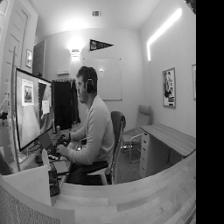
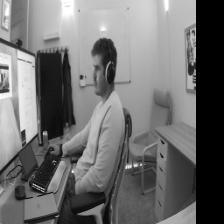
Finalize first classification projects

diff --git a/coral-examples/classify_capture.py b/coral-examples/classify_capture.py
@@ -28,10 +28,10 @@ import PIL
 import cv2
 
 colour = (255,105,180)
-org_x, org_y, org_dy = 0, 30, 30
+org_x, org_y, org_dy = 0, 70, 70
 font = cv2.FONT_HERSHEY_SIMPLEX
-scale = 0.75
-thickness = 2
+scale = 2.5
+thickness = 4
 
 Category = collections.namedtuple('Category', ['id', 'score'])
 
@@ -74,7 +74,7 @@ def main():
     with picamera2.Picamera2() as camera:
         width, height, channels = common.input_image_size(interpreter)
         config = camera.create_video_configuration(
-            main=dict(size=(640, 480)),
+            main=dict(size=(1080, 1080)),
             lores=dict(size=(width, height))
         )
         camera.video_configuration.controls.FrameRate = 30.0
@@ -91,12 +91,19 @@ def main():
         try:
             while True:
                 time.sleep(1)
-                buffer = camera.capture_buffer("lores")
-                grey = buffer[:s1 * h1].reshape((h1, s1))
-                rgb = cv2.cvtColor(grey,cv2.COLOR_GRAY2RGB)
-                rgb = cv2.resize(rgb, (width, height))
-                PIL.Image.fromarray(rgb).save('input_image.jpg')
-                input_data = np.expand_dims(rgb, axis=0)
+                mb = camera.capture_array("main")
+                mb = PIL.Image.fromarray(mb)
+                mb = mb.convert('RGB')
+                mb = mb.resize((width, height))
+                mb.save('main_input_image.jpg')
+                mb = np.array(mb)
+
+                # buffer = camera.capture_buffer("lores")
+                # grey = buffer[:s1 * h1].reshape((h1, s1))
+                # rgb = cv2.cvtColor(grey,cv2.COLOR_GRAY2RGB)
+                # rgb = cv2.resize(rgb, (width, height))
+                # PIL.Image.fromarray(rgb).save('input_image.jpg')
+                input_data = np.expand_dims(mb, axis=0)
                 common.input_tensor(interpreter)[:,:] = np.reshape(input_data, common.input_image_size(interpreter))
                 interpreter.invoke()
                 results = get_output(interpreter, top_k=3, score_threshold=0)
